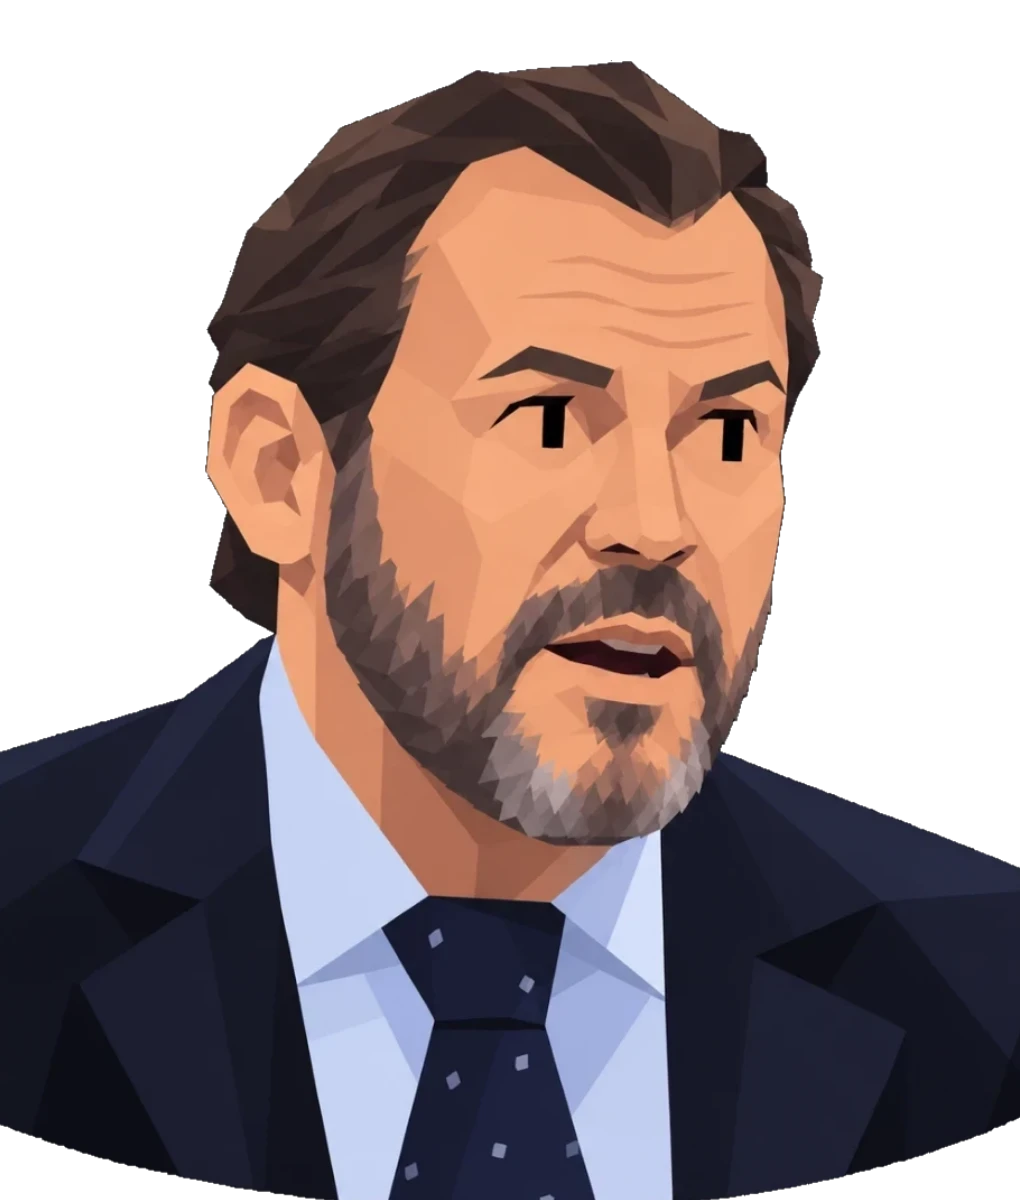
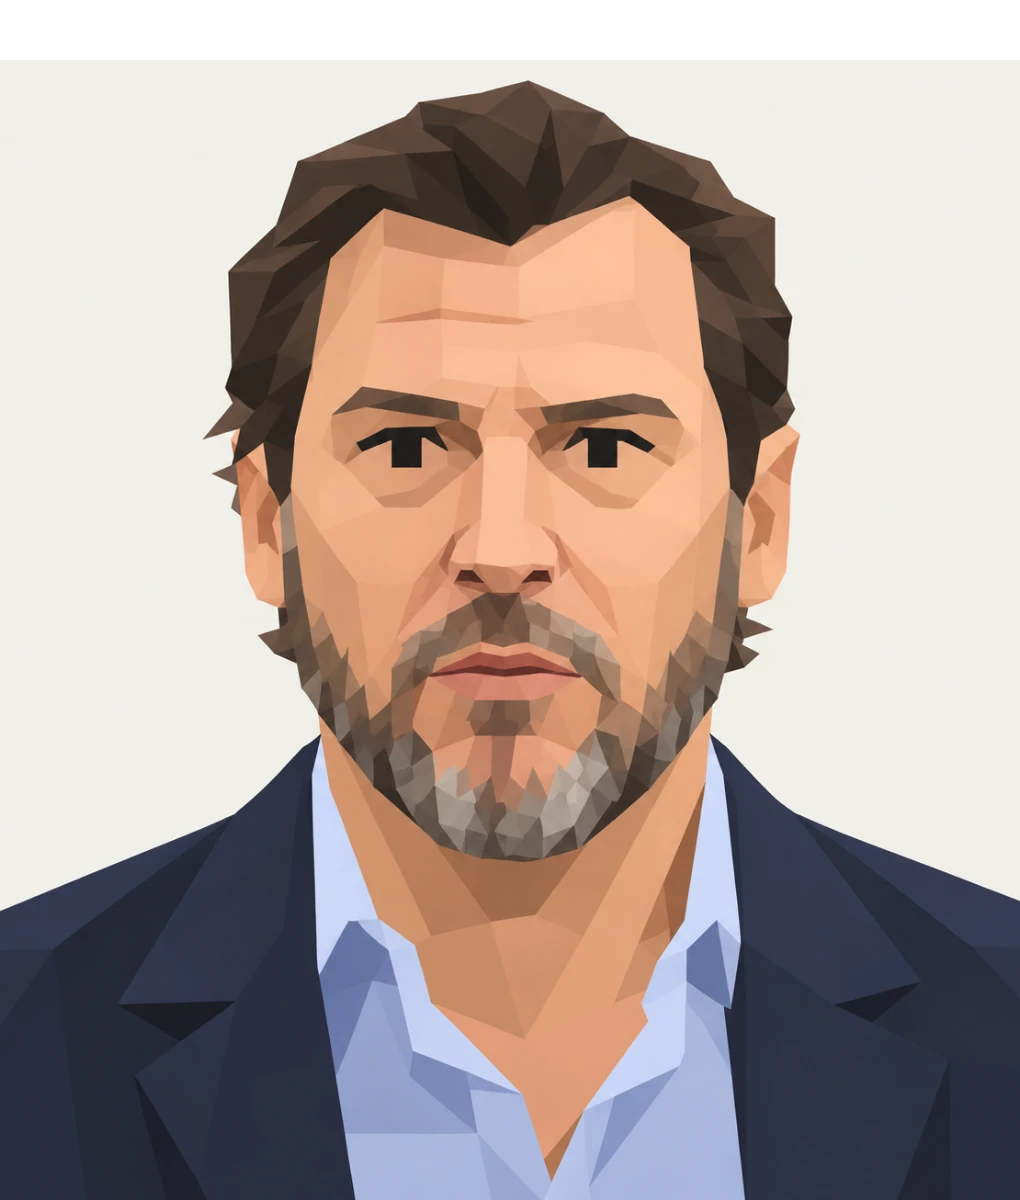
Retrato nuevo de El Escudero
Pasado por el encuadre comun y a webp (1.2 MB -> 47 KB). Bbox 0/60/1020/1200,
calcado al del presidente: sangra a los lados sin hueco. Sigue de traje azul
(68% del color del torso), asi que el fondo de sus cartas se queda en la misma
familia: de #181a23 a #262832.

diff --git a/src/data/coloresRetrato.ts b/src/data/coloresRetrato.ts
@@ -18,7 +18,7 @@ export const COLOR_RETRATO: Record<string, string> = {
   'juez.webp': '#111010',
   'ministraincompetente.webp': '#42444c',
   'ministrocorrupto.webp': '#2d292d',
-  'ministrolameculos.webp': '#181a23',
+  'ministrolameculos.webp': '#262832',
   'mopongo.webp': '#3b2123',
   'oposicionsuave.webp': '#1f232f',
   'periodista.webp': '#0b090b',
